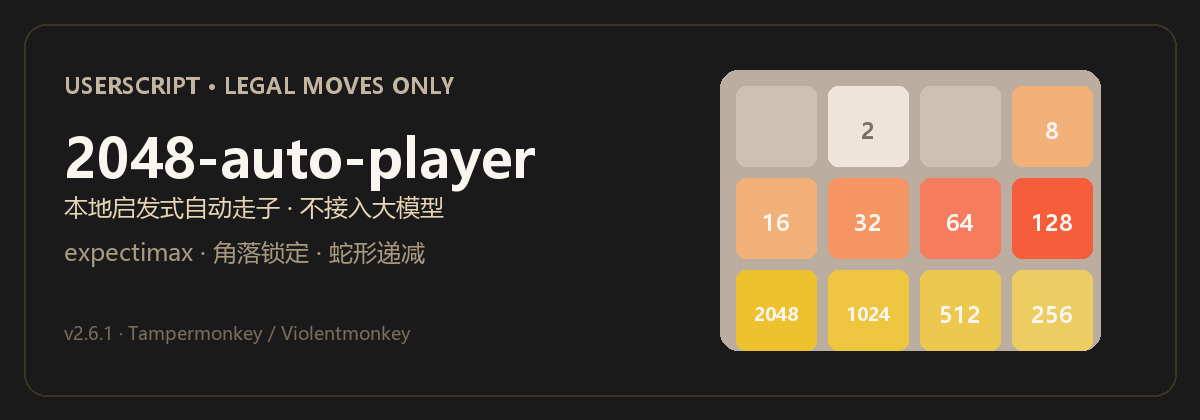
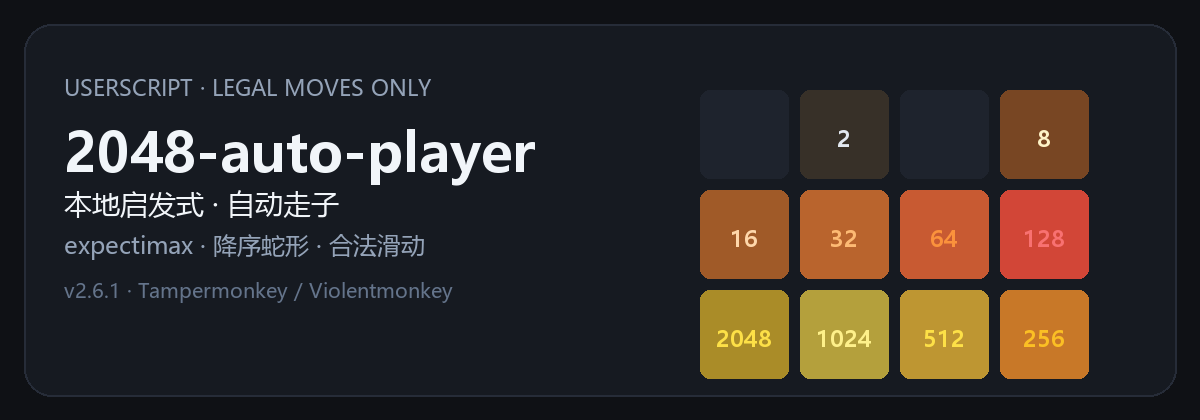
fix(readme): 用 UTF-8 脚本重渲头图中文
此前 PowerShell 写入脚本导致中文字符损坏，PNG 内为方框；改用雅黑正确嵌入并加缓存参数。

diff --git a/scripts/gen-hero-png.py b/scripts/gen-hero-png.py
@@ -1,0 +1,133 @@
+# -*- coding: utf-8 -*-
+"""Generate README hero.png with CJK-capable fonts (Microsoft YaHei)."""
+from __future__ import annotations
+
+import os
+from pathlib import Path
+
+from PIL import Image, ImageDraw, ImageFont
+
+ROOT = Path(__file__).resolve().parents[1]
+OUT = ROOT / "assets" / "readme" / "hero.png"
+
+W, H = 1200, 420
+BG = (15, 17, 21)
+CARD = (22, 26, 33)
+BORDER = (38, 44, 56)
+MUTED = (148, 163, 184)
+WHITE = (241, 245, 249)
+ACCENT = (251, 191, 36)
+DIM = (100, 116, 139)
+
+TILE = {
+    0: ((30, 35, 45), (71, 85, 105)),
+    2: ((55, 48, 40), (226, 232, 240)),
+    8: ((120, 70, 35), (254, 243, 199)),
+    16: ((160, 90, 40), (254, 215, 170)),
+    32: ((185, 100, 45), (253, 186, 116)),
+    64: ((200, 90, 50), (251, 146, 60)),
+    128: ((210, 70, 55), (248, 113, 113)),
+    256: ((200, 120, 40), (251, 191, 36)),
+    512: ((190, 150, 50), (253, 224, 71)),
+    1024: ((180, 160, 60), (254, 240, 138)),
+    2048: ((170, 140, 40), (253, 224, 71)),
+}
+
+
+def load_font(size: int, bold: bool = False) -> ImageFont.FreeTypeFont:
+    candidates = []
+    if bold:
+        candidates += [
+            (r"C:\Windows\Fonts\msyhbd.ttc", 0),
+            (r"C:\Windows\Fonts\msyh.ttc", 0),
+            (r"C:\Windows\Fonts\simhei.ttf", 0),
+        ]
+    else:
+        candidates += [
+            (r"C:\Windows\Fonts\msyh.ttc", 0),
+            (r"C:\Windows\Fonts\simhei.ttf", 0),
+            (r"C:\Windows\Fonts\simsun.ttc", 0),
+        ]
+    for path, index in candidates:
+        if os.path.exists(path):
+            return ImageFont.truetype(path, size=size, index=index)
+    raise SystemExit("No CJK font found")
+
+
+def assert_cjk(font: ImageFont.FreeTypeFont, sample: str = "本地") -> None:
+    im = Image.new("RGB", (200, 80), "black")
+    d = ImageDraw.Draw(im)
+    d.text((8, 8), sample, font=font, fill="white")
+    ink = sum(1 for p in im.getdata() if p != (0, 0, 0))
+    if ink < 200:
+        raise SystemExit(f"CJK glyph ink too low ({ink}); font broken")
+
+
+def rounded_rect(draw: ImageDraw.ImageDraw, box, radius, fill, outline=None, width=1):
+    draw.rounded_rectangle(box, radius=radius, fill=fill, outline=outline, width=width)
+
+
+def draw_board(draw: ImageDraw.ImageDraw, origin, cell, gap, grid, font_num):
+    x0, y0 = origin
+    rows, cols = len(grid), len(grid[0])
+    for r in range(rows):
+        for c in range(cols):
+            v = grid[r][c]
+            bg, fg = TILE.get(v, ((45, 50, 60), WHITE))
+            x = x0 + c * (cell + gap)
+            y = y0 + r * (cell + gap)
+            rounded_rect(draw, (x, y, x + cell, y + cell), 10, bg)
+            if v:
+                text = str(v)
+                bbox = draw.textbbox((0, 0), text, font=font_num)
+                tw, th = bbox[2] - bbox[0], bbox[3] - bbox[1]
+                draw.text(
+                    (x + (cell - tw) / 2, y + (cell - th) / 2 - 2),
+                    text,
+                    font=font_num,
+                    fill=fg,
+                )
+
+
+def main() -> None:
+    font_eyebrow = load_font(22, bold=False)
+    font_title = load_font(54, bold=True)
+    font_sub = load_font(28, bold=False)
+    font_feat = load_font(24, bold=False)
+    font_foot = load_font(20, bold=False)
+    font_num = load_font(22, bold=True)
+
+    assert_cjk(font_sub, "本地启发式自动走子")
+    assert_cjk(font_feat, "降序蛇形")
+
+    img = Image.new("RGB", (W, H), BG)
+    draw = ImageDraw.Draw(img)
+    rounded_rect(draw, (24, 24, W - 24, H - 24), 28, CARD, outline=BORDER, width=2)
+
+    # left copy
+    x, y = 64, 72
+    draw.text((x, y), "USERSCRIPT · LEGAL MOVES ONLY", font=font_eyebrow, fill=MUTED)
+    y += 42
+    draw.text((x, y), "2048-auto-player", font=font_title, fill=WHITE)
+    y += 70
+    draw.text((x, y), "本地启发式 · 自动走子", font=font_sub, fill=WHITE)
+    y += 44
+    draw.text((x, y), "expectimax · 降序蛇形 · 合法滑动", font=font_feat, fill=MUTED)
+    y += 48
+    draw.text((x, y), "v2.6.1 · Tampermonkey / Violentmonkey", font=font_foot, fill=DIM)
+
+    # right board (snake-ish demo)
+    grid = [
+        [0, 2, 0, 8],
+        [16, 32, 64, 128],
+        [2048, 1024, 512, 256],
+    ]
+    draw_board(draw, (700, 90), 88, 12, grid, font_num)
+
+    OUT.parent.mkdir(parents=True, exist_ok=True)
+    img.save(OUT, format="PNG", optimize=True)
+    print(f"wrote {OUT} ({OUT.stat().st_size} bytes)")
+
+
+if __name__ == "__main__":
+    main()

diff --git a/README.md b/README.md
@@ -1,7 +1,7 @@
 # 2048-auto-player
 
 <p align="center">
-  <img src="assets/readme/hero.png" alt="2048-auto-player：本地启发式自动走子，合法滑动，不接入大模型" width="100%">
+  <img src="assets/readme/hero.png?v=20260814-2" alt="2048-auto-player：本地启发式自动走子，合法滑动，不接入大模型" width="100%">
 </p>
 
 在浏览器里用 **Tampermonkey / Violentmonkey** 自动玩 2048：每一步都是真正的方向滑动，分数由游戏服务端正常累计。
